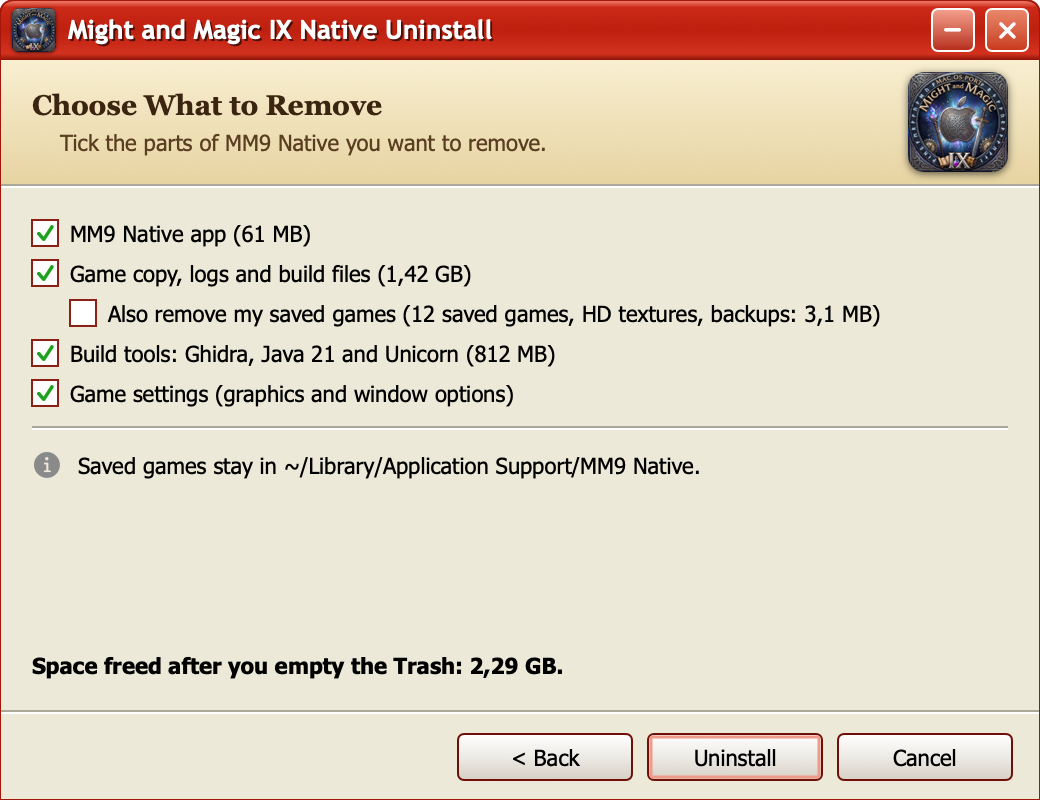
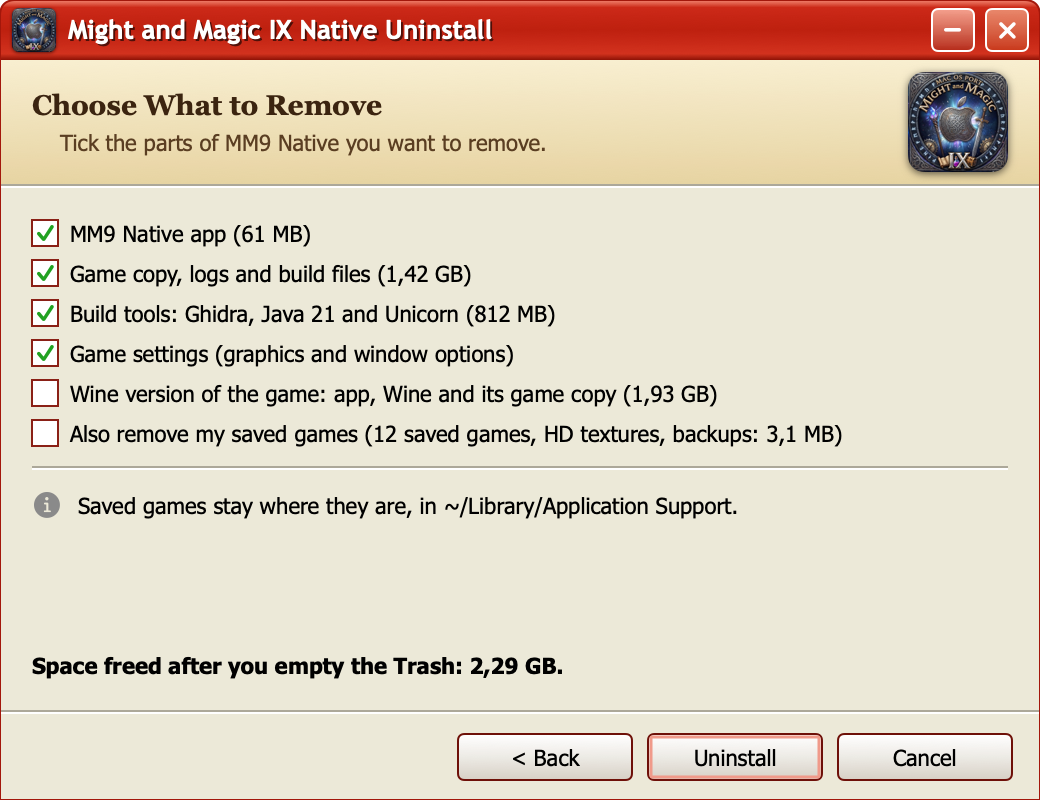
uninstaller: optional removal of the Wine version
A new "Wine version of the game" line (off by default) moves Might and Magic
IX.app (only with the Wine version's bundle ID) and ~/Library/Application
Support/Might and Magic IX to the Trash. "Also remove my saved games" now
covers both versions: unless it is ticked, each removed folder keeps its
SaveGames, autoexec.cfg and HDTextures. The running-game check includes the
Wine app when it is ticked. README updated, screenshot refreshed.

Changed region(s): [[0.0308, 0.375, 0.9538, 0.6562]]

diff --git a/installer/MM9Uninstaller.swift b/installer/MM9Uninstaller.swift
@@ -1,7 +1,7 @@
 // MM9 Native Uninstaller: a Windows XP style wizard (Luna-style red) that removes what the MM9 Native Installer
 // and Updater put on this Mac: the app, the game copy and build files, the build tools and the game's settings.
+// The Wine version of the game ("Might and Magic IX.app" and its folder) can be removed too, but only when ticked.
 // Saved games stay unless the player asks otherwise. Everything goes to the Trash, so it can be put back.
-// The Wine version of the game ("Might and Magic IX.app" and its folder) is never touched.
 // Nothing from the game is in this app. MIT licence (see LICENSES/). Shares XPKit.swift with the installer.
 import SwiftUI
 
@@ -10,6 +10,8 @@ let oldToolsCache = "\(home)/Library/Caches/MM9 Native Builder"     // builder 1
 let prefDomain = "local.mm9-native"
 let prefFiles = ["\(home)/Library/Preferences/\(prefDomain).plist", "\(home)/Library/Saved Application State/\(prefDomain).savedState"]
 let appMarker = "Contents/Resources/mm9native-builder.txt"
+let wineBundleID = "local.mm9port.mightandmagic9"
+let wineSupport = (wineGame as NSString).deletingLastPathComponent     // game copy, Wine prefix and launcher.log
 /// Kept inside the game copy when the saves stay: the saves, the game's own settings file and the HD texture packs.
 let keptInGame: Set<String> = ["SaveGames", "autoexec.cfg", "HDTextures"]
 
@@ -43,8 +45,15 @@ struct Found {
     var toolsPresent = false
     var toolsSize: Int64 = 0
     var prefsPresent = false
-    var wineApp = false
-    var nothing: Bool { appPaths.isEmpty && !supportPresent && !toolsPresent && !prefsPresent }
+    var wineApps: [String] = []        // "Might and Magic IX.app" with the Wine version's bundle id
+    var foreignWine: [String] = []     // an app of that name that is not ours: left alone
+    var wineSupportPresent = false
+    var wineSize: Int64 = 0            // the Wine apps and their whole folder
+    var wineSavesSize: Int64 = 0       // what stays in that folder when the saves are kept
+    var wineSaves = 0
+    var winePresent: Bool { !wineApps.isEmpty || wineSupportPresent }
+    var wineApp: Bool { winePresent || !foreignWine.isEmpty }
+    var nothing: Bool { appPaths.isEmpty && !supportPresent && !toolsPresent && !prefsPresent && !winePresent }
 
     static func scan() -> Found {
         let fm = FileManager.default
@@ -63,7 +72,17 @@ struct Found {
         f.toolsPresent = fm.fileExists(atPath: toolsCache) || fm.fileExists(atPath: oldToolsCache)
         f.toolsSize = sizeOf(toolsCache) + sizeOf(oldToolsCache)
         f.prefsPresent = prefFiles.contains { fm.fileExists(atPath: $0) }
-        f.wineApp = fm.fileExists(atPath: "/Applications/Might and Magic IX.app") || fm.fileExists(atPath: "\(home)/Applications/Might and Magic IX.app")
+        for d in ["\(home)/Applications", "/Applications"] {
+            let p = "\(d)/Might and Magic IX.app"
+            guard fm.fileExists(atPath: p) else { continue }
+            if Bundle(path: p)?.bundleIdentifier == wineBundleID { f.wineApps.append(p); f.wineSize += sizeOf(p) } else { f.foreignWine.append(p) }
+        }
+        f.wineSupportPresent = fm.fileExists(atPath: wineSupport)
+        if f.wineSupportPresent {
+            f.wineSize += sizeOf(wineSupport)
+            f.wineSaves = children("\(wineGame)/SaveGames").count
+            f.wineSavesSize = keptInGame.reduce(0) { $0 + sizeOf("\(wineGame)/\($1)") }
+        }
         return f
     }
 
@@ -71,7 +90,8 @@ struct Found {
         var f = Found()
         f.appPaths = ["/Users/you/Applications/MM9 Native.app"]; f.appSize = 61_000_000
         f.supportPresent = true; f.supportSize = 1_420_000_000; f.savesSize = 3_100_000; f.saves = 12
-        f.toolsPresent = true; f.toolsSize = 812_000_000; f.prefsPresent = true; f.wineApp = true
+        f.toolsPresent = true; f.toolsSize = 812_000_000; f.prefsPresent = true
+        f.wineApps = ["/Applications/Might and Magic IX.app"]; f.wineSupportPresent = true; f.wineSize = 1_930_000_000; f.wineSavesSize = 2_400_000; f.wineSaves = 7
         return f
     }()
 }
@@ -85,6 +105,7 @@ final class UninstallModel: ObservableObject {
     @Published var removeSaves = false
     @Published var removeTools = true
     @Published var removePrefs = true
+    @Published var removeWine = false      // the Wine version is only removed when ticked
     @Published var phase: Phase = .idle
     @Published var step = 0
     @Published var steps = 1
@@ -123,14 +144,28 @@ final class UninstallModel: ObservableObject {
         }
     }
 
-    func checkRunning() { if live { gameRunning = !NSRunningApplication.runningApplications(withBundleIdentifier: prefDomain).isEmpty } }
-    func quitGame() { NSRunningApplication.runningApplications(withBundleIdentifier: prefDomain).forEach { $0.terminate() } }
+    /// The games whose files would be moved: MM9 Native always, the Wine version only when ticked.
+    var watchedIDs: [String] { removeWine ? [prefDomain, wineBundleID] : [prefDomain] }
+    func checkRunning() { if live { gameRunning = watchedIDs.contains { !NSRunningApplication.runningApplications(withBundleIdentifier: $0).isEmpty } } }
+    func quitGame() { for id in watchedIDs { NSRunningApplication.runningApplications(withBundleIdentifier: id).forEach { $0.terminate() } } }
 
-    var anything: Bool { removeApp || removeGame || removeTools || removePrefs }
-    var keepsSaves: Bool { removeGame && !removeSaves && (found?.savesSize ?? 0) > 0 }
+    var anything: Bool { removeApp || removeGame || removeTools || removePrefs || removeWine }
+    var savesAffected: Bool { removeGame || removeWine }
+    var keptSavesSize: Int64 { guard let f = found else { return 0 }; return (removeGame ? f.savesSize : 0) + (removeWine ? f.wineSavesSize : 0) }
+    var keepsSaves: Bool { !removeSaves && keptSavesSize > 0 }
     var toFree: Int64 {
         guard let f = found else { return 0 }
         return (removeApp ? f.appSize : 0) + (removeGame ? f.supportSize - (removeSaves ? 0 : f.savesSize) : 0) + (removeTools ? f.toolsSize : 0)
+            + (removeWine ? f.wineSize - (removeSaves ? 0 : f.wineSavesSize) : 0)
+    }
+    /// Moves everything in a game's folder to the Trash except its saves, settings file, HD textures and `extra` names.
+    private func trashKeepingSaves(support: String, game: String, extra: Set<String> = []) throws {
+        for c in children(support) where !extra.contains(c) {
+            if "\(support)/\(c)" == game { for g in children(game) where !keptInGame.contains(g) { try trash("\(game)/\(g)") } }
+            else { try trash("\(support)/\(c)") }
+        }
+        for k in keptInGame.sorted() where FileManager.default.fileExists(atPath: "\(game)/\(k)") { note("Kept: \(game)/\(k)") }
+        for c in extra.sorted() where FileManager.default.fileExists(atPath: "\(support)/\(c)") { note("Kept: \(support)/\(c)") }
     }
 
     /// Moves the chosen items to the Trash, one group per step.
@@ -141,13 +176,7 @@ final class UninstallModel: ObservableObject {
         if removeGame && f.supportPresent {
             let keep = !removeSaves
             plan.append((keep ? "Moving the game copy and build files to the Trash" : "Moving the game copy, saved games and build files to the Trash", {
-                guard keep else { try self.trash(supportDir); return }
-                for c in children(supportDir) where c != "backups" {
-                    if c == "game" { for g in children(gameCopy) where !keptInGame.contains(g) { try self.trash("\(gameCopy)/\(g)") } }
-                    else { try self.trash("\(supportDir)/\(c)") }
-                }
-                for k in keptInGame.sorted() where FileManager.default.fileExists(atPath: "\(gameCopy)/\(k)") { self.note("Kept: \(gameCopy)/\(k)") }
-                if FileManager.default.fileExists(atPath: "\(supportDir)/backups") { self.note("Kept: \(supportDir)/backups") }
+                if keep { try self.trashKeepingSaves(support: supportDir, game: gameCopy, extra: ["backups"]) } else { try self.trash(supportDir) }
             }))
         }
         if removeTools && f.toolsPresent { plan.append(("Moving the build tools to the Trash", { for p in [toolsCache, oldToolsCache] { try self.trash(p) } })) }
@@ -157,6 +186,14 @@ final class UninstallModel: ObservableObject {
                 p.standardOutput = FileHandle.nullDevice; p.standardError = FileHandle.nullDevice
                 if (try? p.run()) != nil { p.waitUntilExit() }
                 for p in prefFiles { try self.trash(p) }
+            }))
+        }
+        if removeWine && f.winePresent {
+            let keep = !removeSaves
+            plan.append((keep ? "Moving the Wine version to the Trash (its saves stay)" : "Moving the Wine version and its saves to the Trash", {
+                for p in f.wineApps { try self.trash(p) }
+                guard f.wineSupportPresent else { return }
+                if keep { try self.trashKeepingSaves(support: wineSupport, game: wineGame) } else { try self.trash(wineSupport) }
             }))
         }
         steps = max(plan.count, 1); step = 0; log = []; freed = 0; phase = .running
@@ -232,7 +269,7 @@ struct UninstallerRoot: View {
                 Text("Welcome to the Might and Magic IX Native Uninstall Wizard").font(tahoma(14, bold: true))
                 Text("This wizard removes MM9 Native from your Mac: the app, the game copy it was built from, the build tools and the game's settings.").font(tahoma())
                 Text("Your saved games are kept unless you choose to remove them. Everything goes to the Trash, so you can still put it back.").font(tahoma())
-                Text("The Wine version of the game (Might and Magic IX.app) and your GOG installer are not touched.").font(tahoma()).foregroundColor(Color(hex: 0x555555))
+                Text("The Wine version of the game (Might and Magic IX.app) is only removed if you tick it. Your GOG installer is never touched.").font(tahoma()).foregroundColor(Color(hex: 0x555555))
                 Spacer()
                 Text("Click Next to continue.").font(tahoma())
                 GitHubLink()
@@ -245,8 +282,8 @@ struct UninstallerRoot: View {
             if f.nothing {
                 VStack(alignment: .leading, spacing: 8) {
                     XPStatusRow(level: .info, text: "MM9 Native is not installed on this Mac. There is nothing to remove.") { EmptyView() }
-                    ForEach(f.foreignApps, id: \.self) { p in
-                        XPStatusRow(level: .warn, text: "\(p) was not made by the MM9 Native builder, so it is left alone.") { EmptyView() }
+                    ForEach(f.foreignApps + f.foreignWine, id: \.self) { p in
+                        XPStatusRow(level: .warn, text: "\(p) was not made by this project, so it is left alone.") { EmptyView() }
                     }
                     Spacer(minLength: 0)
                 }
@@ -254,22 +291,23 @@ struct UninstallerRoot: View {
                 VStack(alignment: .leading, spacing: 7) {
                     row("MM9 Native app", f.appSize, on: $m.removeApp, present: !f.appPaths.isEmpty)
                     row("Game copy, logs and build files", f.supportSize - f.savesSize, on: $m.removeGame, present: f.supportPresent)
-                    XPCheck(title: "Also remove my saved games (\(f.saves) saved games, HD textures, backups: \(bytes(f.savesSize)))",
-                            on: Binding(get: { m.removeGame && m.removeSaves }, set: { m.removeSaves = $0 }), locked: !m.removeGame || f.savesSize == 0)
-                        .padding(.leading, 19)
                     row("Build tools: Ghidra, Java 21 and Unicorn", f.toolsSize, on: $m.removeTools, present: f.toolsPresent)
                     row("Game settings (graphics and window options)", 0, on: $m.removePrefs, present: f.prefsPresent)
+                    row("Wine version of the game: app, Wine and its game copy", f.wineSize - f.wineSavesSize, on: $m.removeWine, present: f.winePresent)
+                    let saves = (m.removeGame ? f.saves : 0) + (m.removeWine ? f.wineSaves : 0)
+                    XPCheck(title: "Also remove my saved games (\(saves) saved games, HD textures\(m.removeGame ? ", backups" : ""): \(bytes(m.keptSavesSize)))",
+                            on: Binding(get: { m.savesAffected && m.removeSaves }, set: { m.removeSaves = $0 }), locked: !m.savesAffected || m.keptSavesSize == 0)
                     Etched().padding(.vertical, 3)
-                    if m.removeGame && m.removeSaves {
+                    if m.savesAffected && m.removeSaves && m.keptSavesSize > 0 {
                         XPStatusRow(level: .warn, text: "Your saved games will go to the Trash too. Empty the Trash only if you are sure.") { EmptyView() }
-                    } else if m.removeGame && f.savesSize > 0 {
-                        XPStatusRow(level: .info, text: "Saved games stay in ~/Library/Application Support/MM9 Native.") { EmptyView() }
+                    } else if m.keepsSaves {
+                        XPStatusRow(level: .info, text: "Saved games stay where they are, in ~/Library/Application Support.") { EmptyView() }
                     }
                     if m.gameRunning {
-                        XPStatusRow(level: .bad, text: "MM9 Native is running. Quit it first.") { XPButton(title: "Quit Game") { m.quitGame() } }
+                        XPStatusRow(level: .bad, text: "The game is running. Quit it first.") { XPButton(title: "Quit Game") { m.quitGame() } }
                     }
-                    ForEach(f.foreignApps, id: \.self) { p in
-                        XPStatusRow(level: .warn, text: "\(p) was not made by the builder; it is left alone.") { EmptyView() }
+                    ForEach(f.foreignApps + f.foreignWine, id: \.self) { p in
+                        XPStatusRow(level: .warn, text: "\(p) was not made by this project; it is left alone.") { EmptyView() }
                     }
                     Spacer(minLength: 0)
                     Text("Space freed after you empty the Trash: \(bytes(m.toFree)).").font(tahoma(11, bold: true))
@@ -324,9 +362,11 @@ struct UninstallerRoot: View {
                 Text("Completing the Might and Magic IX Native Uninstall Wizard").font(tahoma(14, bold: true))
                 Text("MM9 Native was removed. The removed items are in the Trash; empty it to free \(bytes(m.freed)).").font(tahoma())
                 if m.keepsSaves {
-                    Text("Your saved games were kept in ~/Library/Application Support/MM9 Native. If you install MM9 Native again, they are still there.").font(tahoma()).foregroundColor(Color(hex: 0x555555))
+                    Text("Your saved games were kept in ~/Library/Application Support. If you install the game again, they are still there.").font(tahoma()).foregroundColor(Color(hex: 0x555555))
                 }
-                if m.found?.wineApp ?? false {
+                if m.removeWine {
+                    Text("The Wine version of the game was removed too.").font(tahoma()).foregroundColor(Color(hex: 0x555555))
+                } else if m.found?.wineApp ?? false {
                     Text("The Wine version of the game was not touched.").font(tahoma()).foregroundColor(Color(hex: 0x555555))
                 }
                 XPCheck(title: "Show details", on: $showDetails)

diff --git a/README.md b/README.md
@@ -150,8 +150,8 @@ Click **Try Again**, or **Copy log** and [open an issue](https://github.com/opim
 ### How to uninstall
 
 To remove MM9 Native, use the **uninstaller**, the **red** window. It finds what the installer and updater put
-on your Mac and moves it to the **Trash**, so you can still put things back until you empty it. Your saved
-games stay unless you tick them too.
+on your Mac and moves it to the **Trash**, so you can still put things back until you empty it. It can remove
+the Wine version of the game too, if you tick it. Your saved games stay unless you tick them too.
 
 <p align="center"><img src="docs/img/uninstaller-components.png" width="460" alt="MM9 Native Uninstaller: choose what to remove"></p>
 
@@ -162,15 +162,19 @@ games stay unless you tick them too.
 3. Click **Next >**. Tick what to remove; each line shows how much space it takes:
    - **MM9 Native app**: the game in `~/Applications` (or `/Applications`).
    - **Game copy, logs and build files**: `~/Library/Application Support/MM9 Native`, except your saves.
-   - **Also remove my saved games**: off at first. Leave it off and your saved games, `autoexec.cfg`, HD textures
-     and the updater's save backups stay where they are, so a later reinstall finds them again.
    - **Build tools**: Ghidra, Java 21 and Unicorn in `~/Library/Application Support/MM9 Native Builder`.
    - **Game settings**: the graphics and window options (`local.mm9-native`).
+   - **Wine version of the game**: off at first. Tick it to also remove the older Wine-based
+     `Might and Magic IX.app` and its folder, `~/Library/Application Support/Might and Magic IX` (its game copy
+     and Wine setup). MM9 Native does not need it.
+   - **Also remove my saved games**: off at first. Leave it off and the saved games, `autoexec.cfg` and HD
+     textures of every version you remove stay where they are (plus the updater's save backups), so a later
+     reinstall finds them again.
 4. Click **Uninstall**, then **Finish**. Empty the Trash to free the space (**Open Trash** opens it for you).
 
-The uninstaller never touches the Wine version of the game (`Might and Magic IX.app` and its folder) or your
-GOG installer. It only removes an `MM9 Native.app` that the builder made. You can delete the installer, updater
-and uninstaller apps themselves by dragging them to the Trash.
+The uninstaller never touches your GOG installer, and it only removes apps this project made: an
+`MM9 Native.app` from the builder, and a `Might and Magic IX.app` with the Wine version's bundle ID. You can
+delete the installer, updater and uninstaller apps themselves by dragging them to the Trash.
 
 ### Something went wrong?
 
